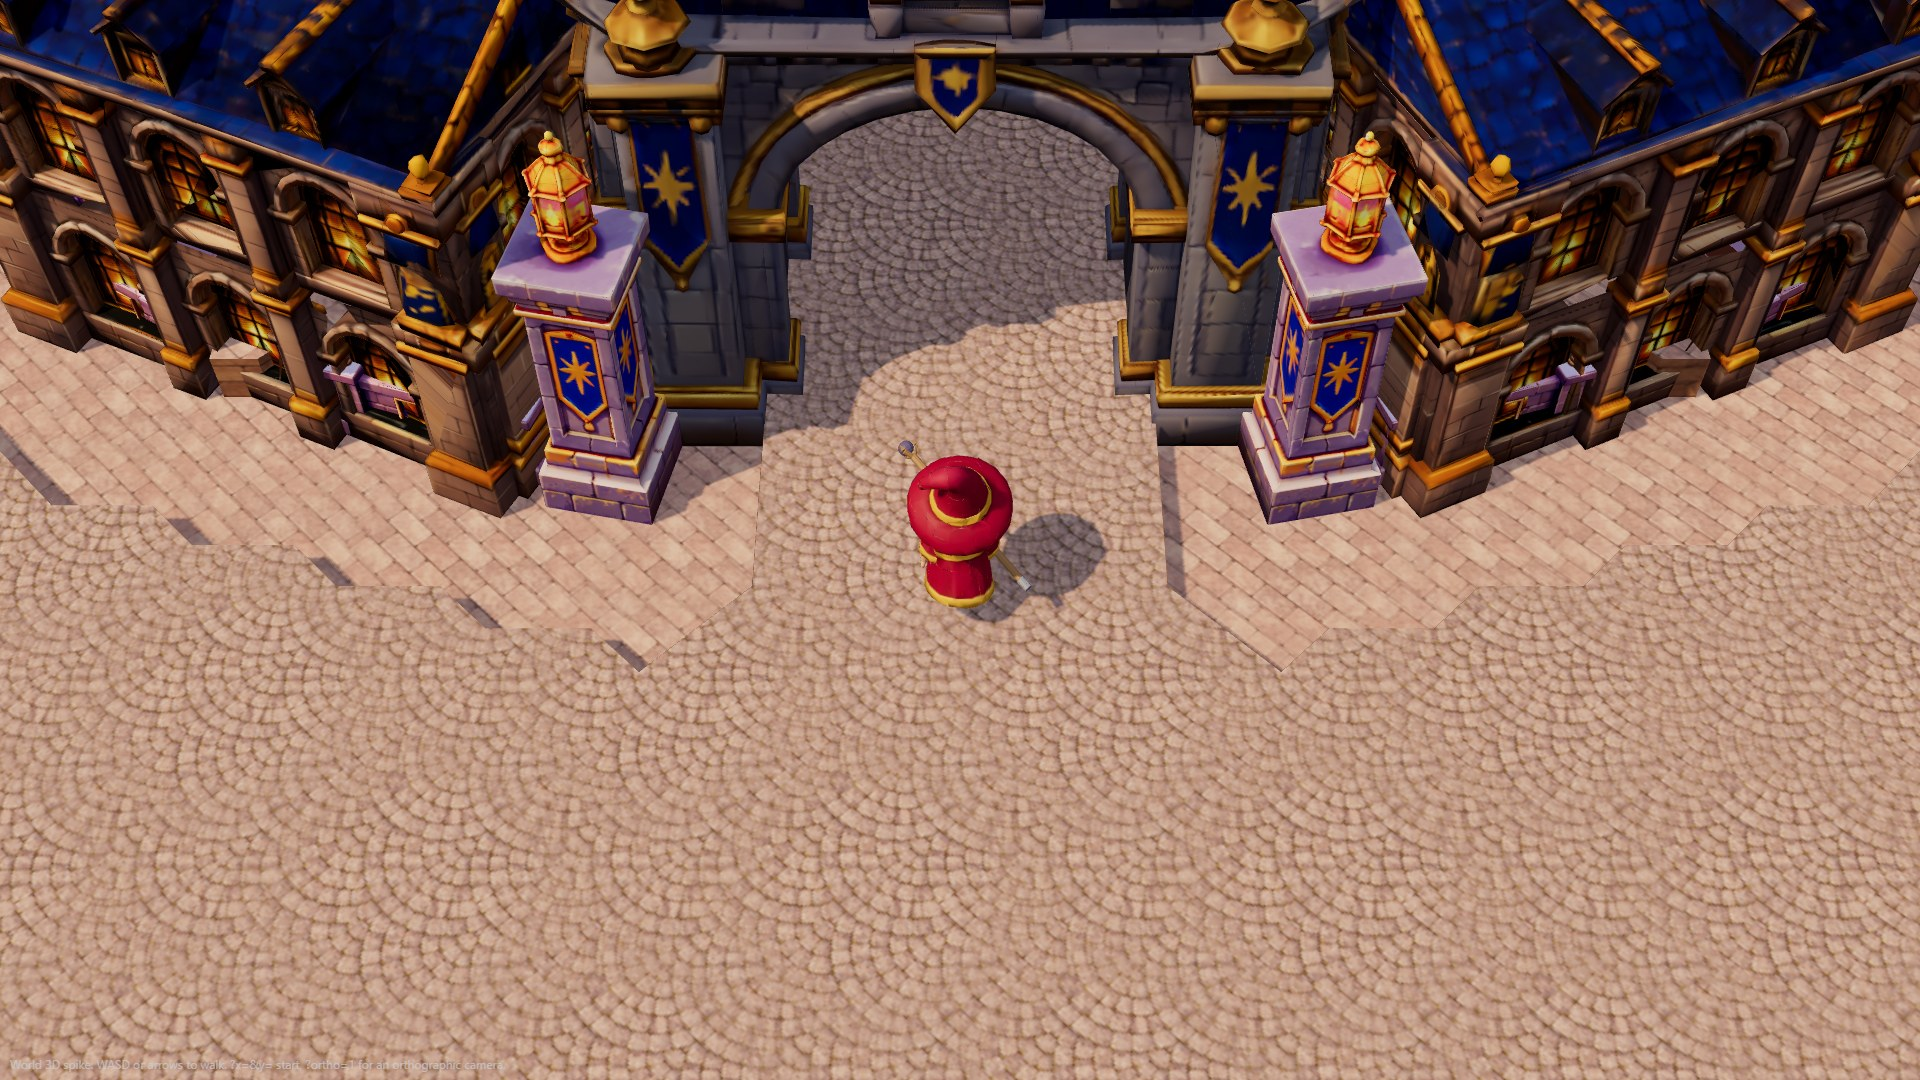
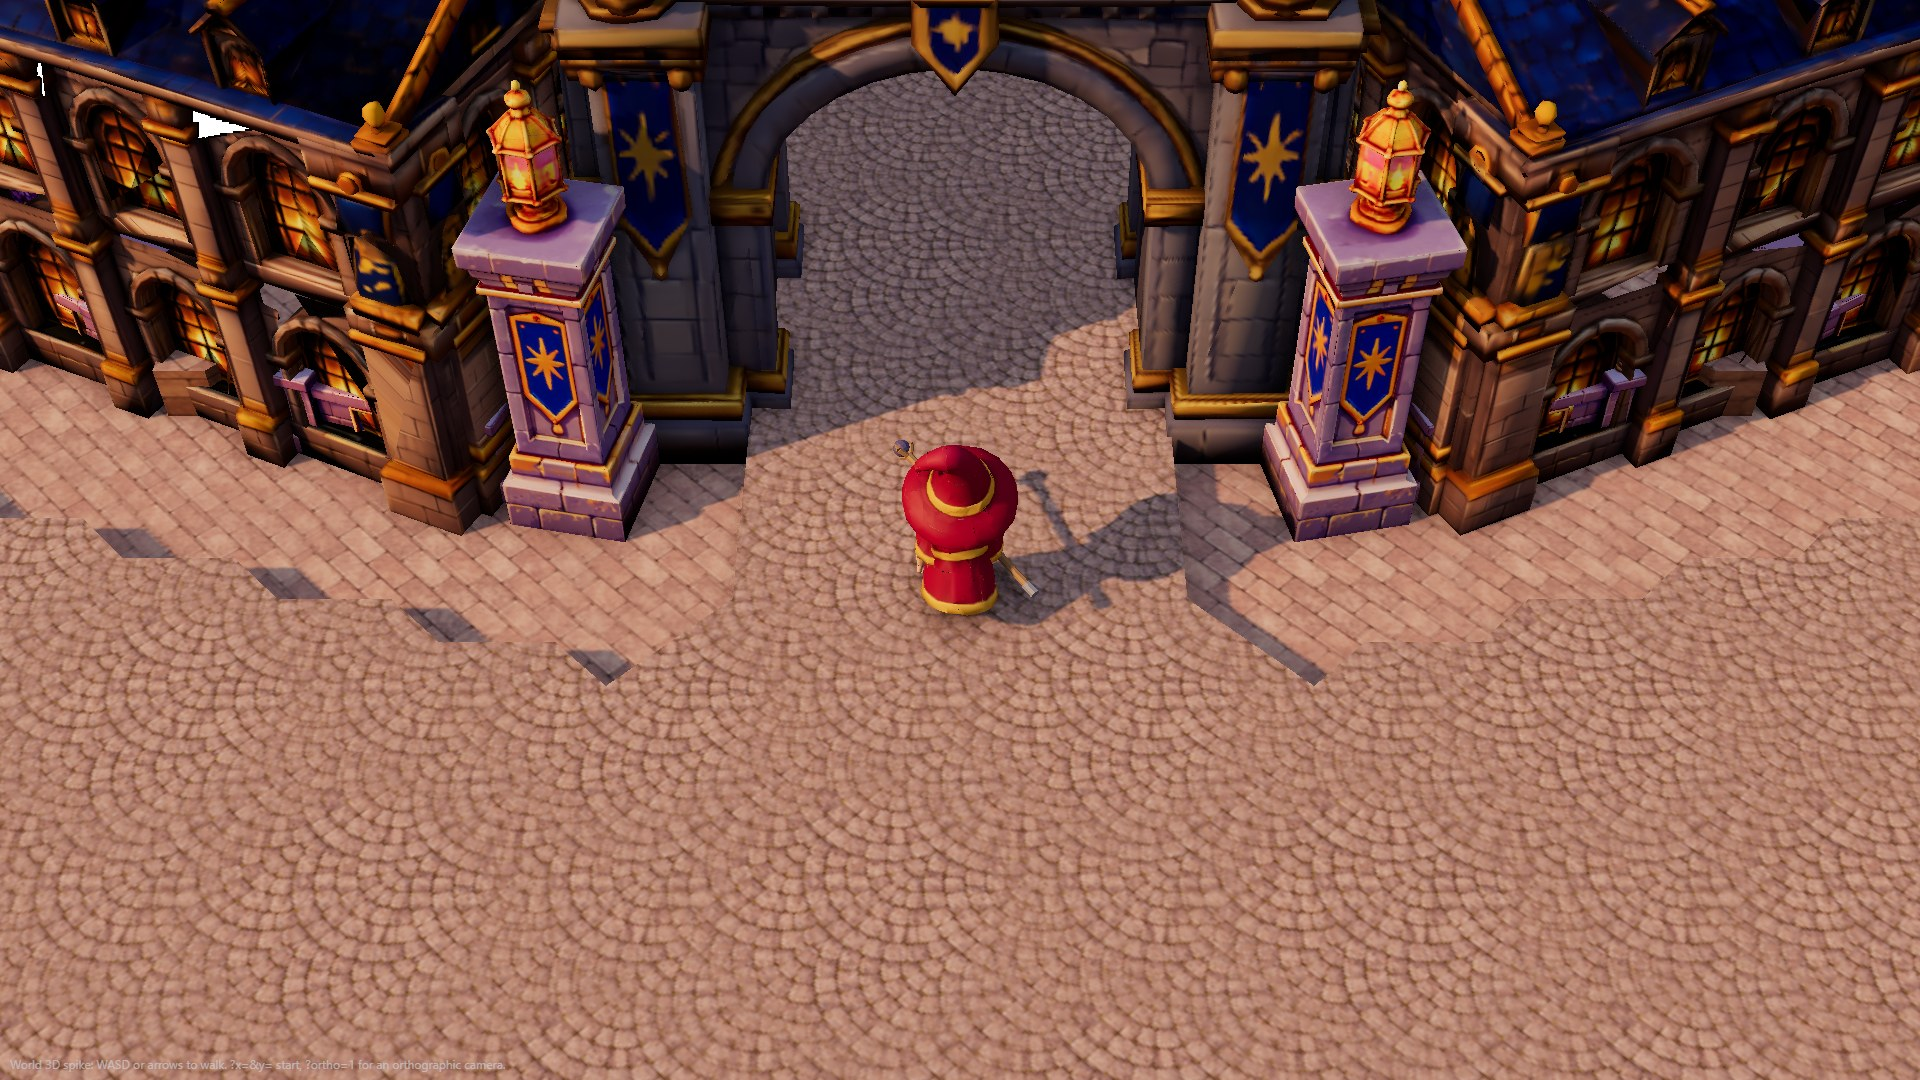
3D spike: a low warm sun, ambient occlusion (GTAO), the camera at 46 degrees, from the critic's light notes
Claude-Session: https://claude.ai/code/session_01JAzvjimAGaEKKq76NLS6sr

diff --git a/game/packages/client/src/lab/world3d.ts b/game/packages/client/src/lab/world3d.ts
@@ -7,6 +7,10 @@
  */
 import * as THREE from 'three';
 import { GLTFLoader } from 'three/addons/loaders/GLTFLoader.js';
+import { EffectComposer } from 'three/addons/postprocessing/EffectComposer.js';
+import { RenderPass } from 'three/addons/postprocessing/RenderPass.js';
+import { GTAOPass } from 'three/addons/postprocessing/GTAOPass.js';
+import { OutputPass } from 'three/addons/postprocessing/OutputPass.js';
 import { ROOMS } from '@wizard-sim/sim';
 import { heightMap } from '../art/heights';
 import { GROUNDS } from '../art/grounds.gen';
@@ -43,8 +47,8 @@ scene.fog = new THREE.Fog(0x2a2f3c, 70, 140);
 const R2 = Math.SQRT1_2;
 const RIGHT = new THREE.Vector3(R2, 0, -R2), DOWN = new THREE.Vector3(R2, 0, R2);
 
-scene.add(new THREE.HemisphereLight(0xcfe0ff, 0x8a6a4a, 1.7));
-const sun = new THREE.DirectionalLight(0xffe2b8, 2.6);
+scene.add(new THREE.HemisphereLight(0xc8d8ff, 0x9a7050, 1.5));
+const sun = new THREE.DirectionalLight(0xffc98f, 3.0);   // a low warm morning sun (the critic: flat midday light)
 sun.castShadow = true;
 sun.shadow.mapSize.set(4096, 4096);
 const sc = sun.shadow.camera as THREE.OrthographicCamera;
@@ -52,7 +56,7 @@ sc.left = -45; sc.right = 45; sc.top = 45; sc.bottom = -45; sc.near = 1; sc.far 
 sun.shadow.bias = -0.0004; sun.shadow.normalBias = 0.04;
 scene.add(sun, sun.target);
 // from the upper left of the screen, fairly high: shadows fall down and to the right
-const SUN_OFF = RIGHT.clone().multiplyScalar(-34).add(DOWN.clone().multiplyScalar(18)).add(new THREE.Vector3(0, 50, 0));   // on the camera's side, so the faces you see are lit
+const SUN_OFF = RIGHT.clone().multiplyScalar(-46).add(DOWN.clone().multiplyScalar(22)).add(new THREE.Vector3(0, 34, 0));   // on the camera's side, so the faces you see are lit
 
 // ---- the terrain, from the level's heights and ground ----
 const def = (ROOMS as Record<string, Parameters<typeof heightMap>[0]>)[ROOM];
@@ -256,7 +260,7 @@ pending.push(gltf.loadAsync(urlOf(modelUrls, 'wizard.glb')!).then((g) => {
 }));
 
 // ---- the camera: steep and close, as Magicka's ----
-const PITCH = THREE.MathUtils.degToRad(Number(q.get('pitch') ?? 52));
+const PITCH = THREE.MathUtils.degToRad(Number(q.get('pitch') ?? 46));   // Magicka's, about (the critic: 52 let roofs take over)
 const ortho = q.get('ortho') === '1';
 const VIEW_H = Number(q.get('view') ?? 18); // world units of ground-plane height the screen shows at the target
 const cam: THREE.Camera = ortho
@@ -284,6 +288,18 @@ const keys = new Set<string>();
 addEventListener('keydown', (e) => keys.add(e.key.toLowerCase()));
 addEventListener('keyup', (e) => keys.delete(e.key.toLowerCase()));
 addEventListener('resize', () => renderer.setSize(innerWidth, innerHeight));
+// ambient occlusion in the corners and at the feet of walls (?ao=0 to compare)
+let composer: EffectComposer | null = null;
+if (q.get('ao') !== '0') {
+  composer = new EffectComposer(renderer);
+  composer.addPass(new RenderPass(scene, cam));
+  const ao = new GTAOPass(scene, cam, innerWidth, innerHeight);
+  ao.updateGtaoMaterial({ radius: 1.2, distanceFallOff: 1, thickness: 1.5 });
+  ao.blendIntensity = 0.85;
+  composer.addPass(ao);
+  composer.addPass(new OutputPass());
+}
+addEventListener('resize', () => composer?.setSize(innerWidth, innerHeight));
 const clock = new THREE.Clock();
 let facing = Math.atan2(-DOWN.x, -DOWN.z);
 function tick() {
@@ -303,7 +319,7 @@ function tick() {
   const z = yOf(metresAt(pos.x, pos.y) || 0);
   if (wizard) { wizard.position.set(pos.x, z, pos.y); wizard.rotation.y = facing; }
   frame(new THREE.Vector3(pos.x, z + 1.2, pos.y));
-  renderer.render(scene, cam);
+  if (composer) composer.render(); else renderer.render(scene, cam);
   requestAnimationFrame(tick);
 }
 Promise.all(pending).then(() => { (window as unknown as { __ready: boolean }).__ready = true; });

diff --git a/tools/segments/01-opening/segment.js b/tools/segments/01-opening/segment.js
@@ -107,7 +107,7 @@ concepts:[
   [`To walk it yourself.`,` In game/: npm run dev, then open http://localhost:5187/world3d.html (WASD to walk). That also shows the frame rate on your machine.`],
  ],
  images:[
-  ['img/spike3d-1.jpg','The 3D spike at the great hall’s gate: Meshy models of the cream stone hall with lit arched windows, gold trim and blue slate roofs, an arched gateway with star banners, two piers with brass lanterns; our red-hatted wizard with his staff on warm paving, casting a real shadow.','At the gate: the modelled pieces.'],
+  ['img/spike3d-1.jpg','The 3D spike at the great hall’s gate: Meshy models of the cream stone hall with lit arched windows, gold trim and blue slate roofs, an arched gateway with star banners, two piers with brass lanterns; our red-hatted wizard with his staff on warm paving, casting a real shadow.','At the gate, after the critic’s light notes: a lower warm sun, ambient occlusion, the camera at 46°.'],
   ['img/spike3d-2.jpg','The 3D spike in the plaza: terraces stepping down in straight lines, brick-sided parapet blocks, the wizard on plain paving.','In the plaza: the unmodelled grey-box in 3D.'],
   ['img/spike3d-3.jpg','The 3D spike at the head of the east flight: a cobbled balcony road, a flight of steps down, extruded grey-box parapets and walls, a corner of the hall at the top left.','At the east flight.'],
  ],
